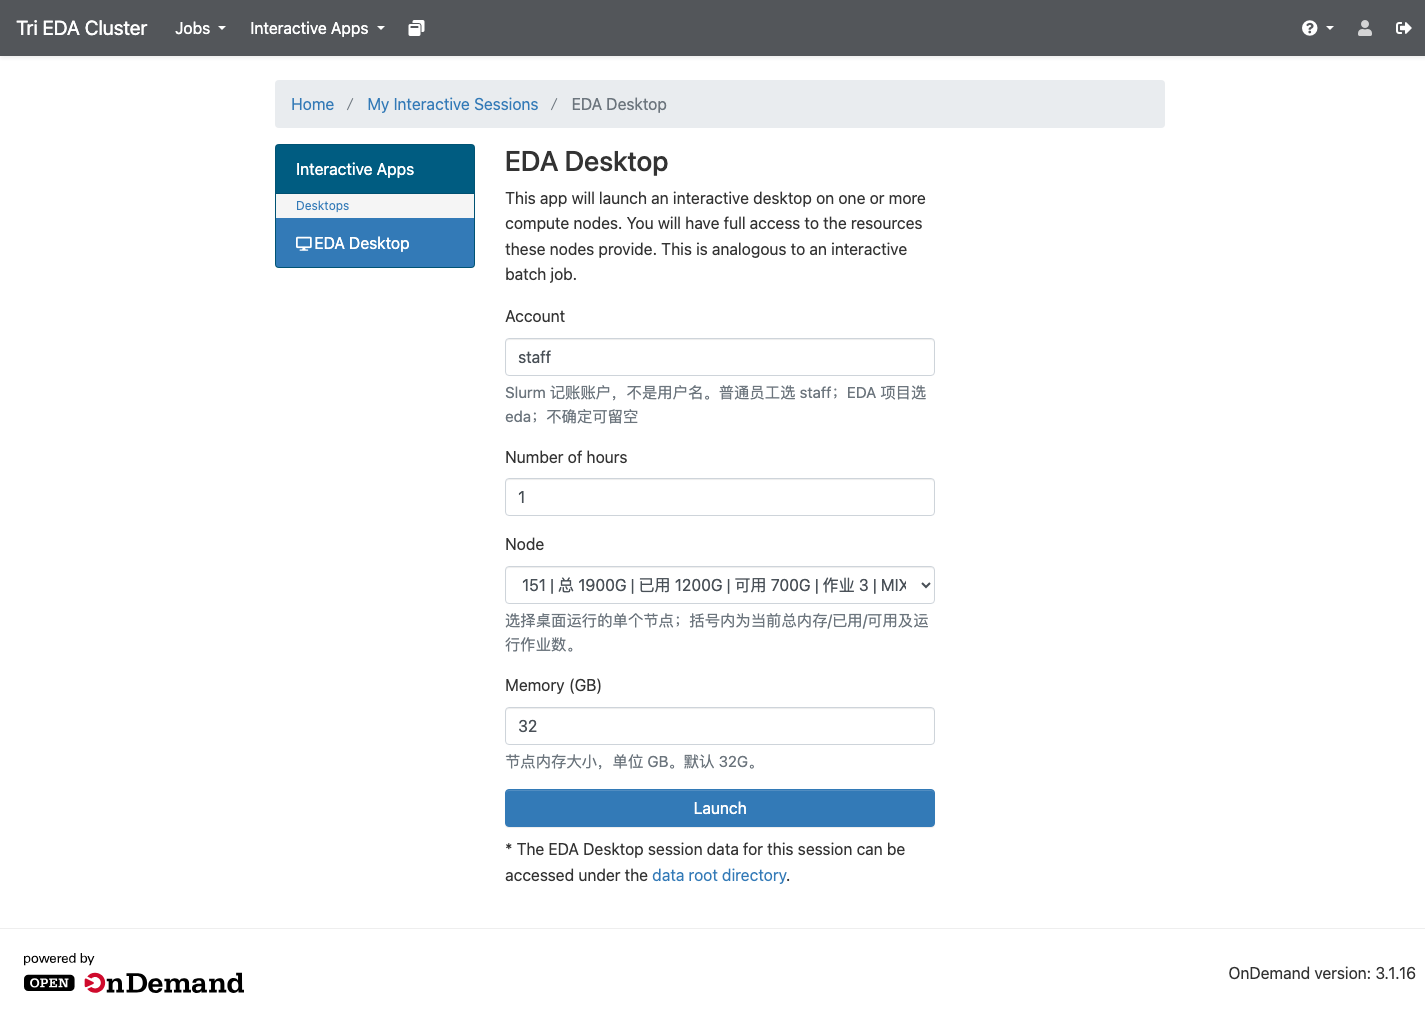
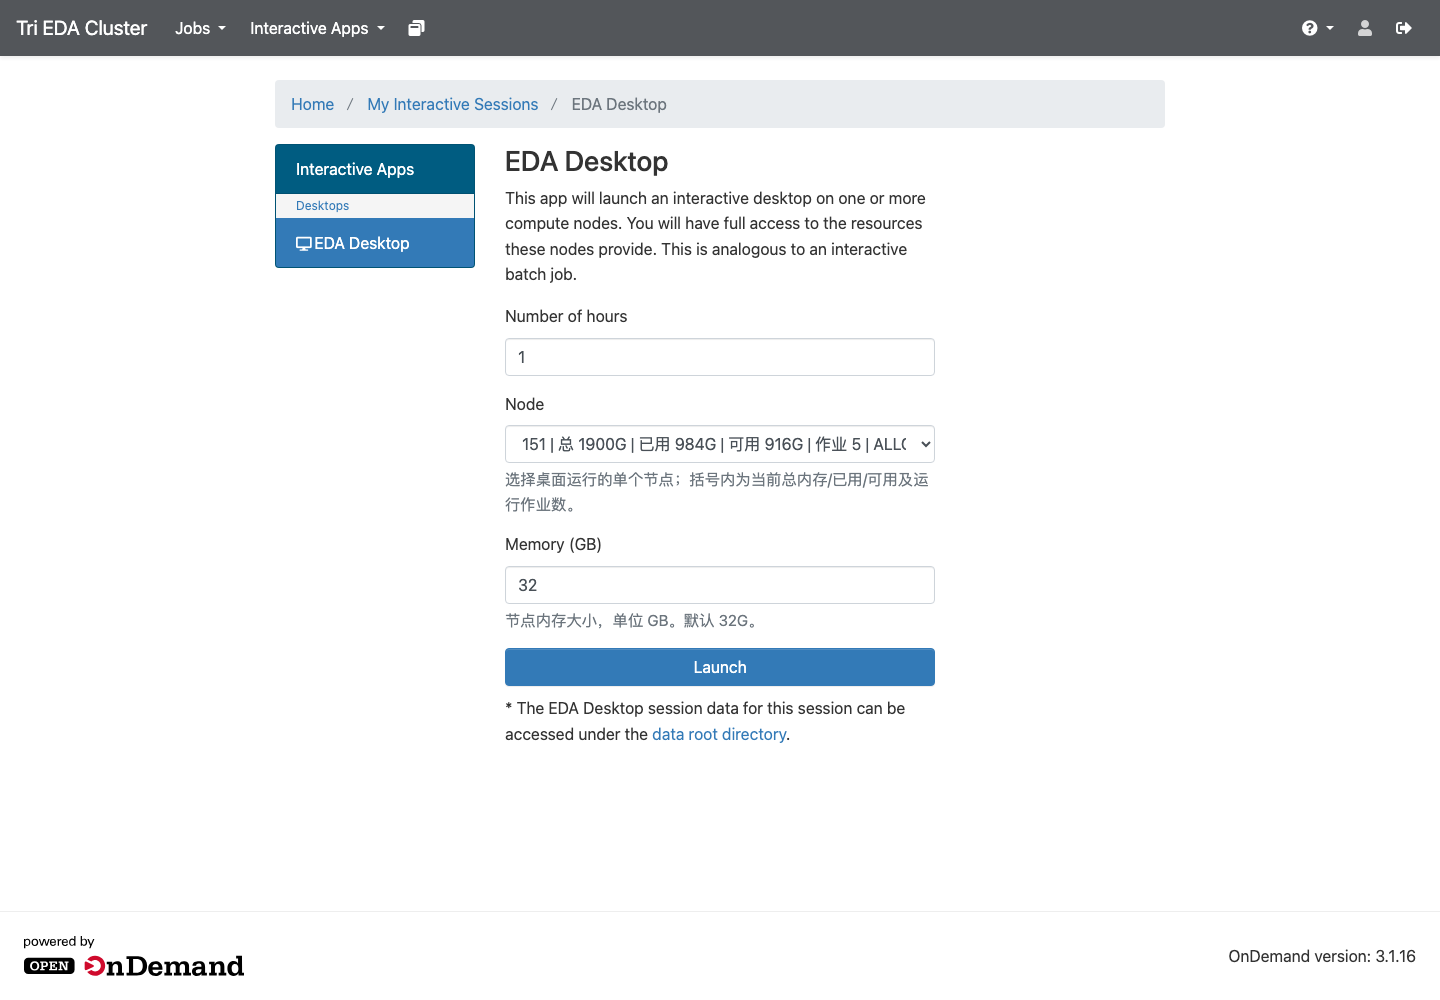
feat: remove Account field from OOD Desktop form

diff --git a/ood/docs/图文用户指南.md b/ood/docs/图文用户指南.md
@@ -74,7 +74,6 @@
 
 | 字段 | 说明 | 示例 |
 |---|---|---|
-| **Account** | Slurm 记账账户，**不是用户名** | staff |
 | **Number of hours** | 桌面最长运行时间 | 1 |
 | **Node** | 选择单个计算节点；下拉框显示实时资源 | 151 |
 | **Memory (GB)** | 该节点申请的内存，单位 GB | 32 |
@@ -267,10 +266,9 @@ Node 下拉框显示格式：
 
        mkdir -p /eda/workspace/users/$USER/slurm-logs
 
-5. **Account 不是用户名**
+5. **Account 已取消填写**
 
-   - 普通员工：staff
-   - EDA 项目人员：按管理员分配
+   Slurm 作业自动使用用户的默认账户（普通员工为 staff）。
 
 ---
 
@@ -319,7 +317,7 @@ Node 下拉框显示格式：
 
     登录：      https://edas.tri.local
     GUI：       Interactive Apps → EDA Desktop
-                Account=staff, Node=151-155, Memory=32, Launch
+                Node=151-155, Memory=32, Launch
     连接：      My Interactive Sessions → Launch EDA Desktop
     作业：      https://edas.tri.local/pun/sys/shell
                 cd /eda/workspace/users/$USER

diff --git a/ood/docs/Slurm与OOD用户操作手册.md b/ood/docs/Slurm与OOD用户操作手册.md
@@ -210,7 +210,6 @@ VPN 场景先按第 2.2 节通过堡垒机进入。
 
 | 字段 | 填写说明 | 示例 |
 |---|---|---|
-| Account | Slurm 记账账户，不是用户名 | staff |
 | Number of hours | 桌面最长运行时间 | 1 |
 | Node | 选择 150-155；下拉框显示实时内存/作业数 | 151 |
 | Memory (GB) | 本节点申请内存，单位 GB | 32 |
@@ -303,7 +302,7 @@ Node 下拉框示例：
 
        mkdir -p /eda/workspace/users/$USER/slurm-logs
 
-5. Account 是 Slurm 记账账户，不是用户名。普通员工使用 staff。
+5. Account 已取消填写，作业自动使用默认账户 staff。
 
 6. 没有指定分区时默认 eda15x（151-155）。
 

diff --git a/ood/docs/用户手册.md b/ood/docs/用户手册.md
@@ -20,10 +20,11 @@ Interactive Apps → EDA Desktop
 
 | 字段 | 说明 |
 |---|---|
-| Account | Slurm 记账账户，普通员工选 staff |
 | Number of hours | 桌面最长运行小时数 |
 | Node | 选择 150-155；下拉框显示总内存/已用/可用/作业数/状态 |
 | Memory (GB) | 该节点内存，单位 GB，例如 32 |
+
+> Account 已取消填写，作业自动使用用户默认账户。
 
 点击 **Launch**。
 

diff --git a/ood/docs/变更记录.md b/ood/docs/变更记录.md
@@ -16,6 +16,7 @@
 - 增加节点下拉菜单，显示总内存/已用/可用/作业数/状态
 - 修正 Desktop 子应用结构，避免出现 `Desktop: Form` 和 `Desktop: Submit`
 - 左上角标题改为 `Tri EDA Cluster`
+- Desktop 表单取消 Account 显示和填写，作业自动使用默认账户 staff
 - 隐藏 Files、Clusters 导航
 - 中英文切换曾试验后回滚，界面保持英文
 
